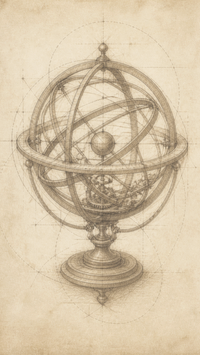
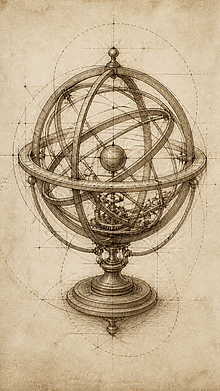
Make panel sketch artworks readable behind chrome
Darken parchment watermarks, raise paint opacity, widen the tool rail,
and let idle icon buttons sample the parent fresco so ornithopter /
armillary drawings show through.

diff --git a/SimpleDrawingApp/AtelierArtwork.cpp b/SimpleDrawingApp/AtelierArtwork.cpp
@@ -75,26 +75,26 @@ void DrawWatermark(Graphics& g, Bitmap* art, const RectF& bounds, REAL opacity, 
     g.SetClip(bounds, CombineModeIntersect);
 
     if (cover) {
-        // Scale to cover panel width, stack vertically to fill tall chrome.
-        const REAL drawW = bounds.Width * 0.92f;
+        // Prefer filling the panel: scale to panel width, stack with slight overlap.
+        const REAL drawW = bounds.Width * 0.96f;
         const REAL drawH = drawW * (static_cast<REAL>(ah) / static_cast<REAL>(aw));
-        REAL y = bounds.Y + 8.0f;
+        REAL y = bounds.Y + 4.0f;
         int pass = 0;
-        while (y < bounds.Y + bounds.Height - 8.0f && pass < 6) {
+        while (y < bounds.Y + bounds.Height - 4.0f && pass < 8) {
             const REAL x = bounds.X + (bounds.Width - drawW) * 0.5f;
-            const REAL fade = (pass == 0) ? opacity : (opacity * 0.72f);
+            // Later passes slightly softer so stacking doesn’t mud.
+            const REAL fade = (pass == 0) ? opacity : (opacity * (pass == 1 ? 0.85f : 0.7f));
             cm.m[3][3] = fade;
             attr.SetColorMatrix(&cm, ColorMatrixFlagsDefault, ColorAdjustTypeBitmap);
             RectF dest(x, y, drawW, drawH);
             g.DrawImage(art, dest, 0.0f, 0.0f,
                 static_cast<REAL>(aw), static_cast<REAL>(ah),
                 UnitPixel, &attr);
-            y += drawH * 0.88f;
+            y += drawH * 0.82f;
             ++pass;
         }
     } else {
-        // Single centered plate for shorter bands.
-        const REAL drawH = bounds.Height * 0.86f;
+        const REAL drawH = bounds.Height * 0.9f;
         const REAL drawW = drawH * (static_cast<REAL>(aw) / static_cast<REAL>(ah));
         const REAL x = bounds.X + (bounds.Width - drawW) * 0.5f;
         const REAL y = bounds.Y + (bounds.Height - drawH) * 0.5f;
@@ -130,8 +130,19 @@ void AtelierArtwork_Shutdown() {
 void DrawFrescoArtwork(Graphics& g, const RectF& bounds, bool leftRail) {
     if (!gInited) AtelierArtwork_Init();
     if (leftRail) {
-        DrawWatermark(g, gRailArt, bounds, 0.20f, true);
+        // Stronger on the outer strip + lower half where controls are sparse.
+        DrawWatermark(g, gRailArt, bounds, 0.46f, true);
+        if (bounds.Height > 160.0f) {
+            RectF lower(bounds.X, bounds.Y + bounds.Height * 0.48f,
+                bounds.Width, bounds.Height * 0.52f);
+            DrawWatermark(g, gRailArt, lower, 0.55f, true);
+        }
     } else {
-        DrawWatermark(g, gLayersArt, bounds, 0.24f, true);
+        DrawWatermark(g, gLayersArt, bounds, 0.42f, true);
+        if (bounds.Height > 180.0f) {
+            RectF lower(bounds.X + 6.0f, bounds.Y + bounds.Height * 0.42f,
+                bounds.Width - 12.0f, bounds.Height * 0.55f);
+            DrawWatermark(g, gLayersArt, lower, 0.58f, false);
+        }
     }
 }

diff --git a/SimpleDrawingApp/UiChrome.cpp b/SimpleDrawingApp/UiChrome.cpp
@@ -724,8 +724,26 @@ void PaintIconButton(const DRAWITEMSTRUCT* dis, const IconPaintOpts& opts) {
     g.SetSmoothingMode(SmoothingModeAntiAlias);
     g.SetCompositingMode(CompositingModeSourceCopy);
 
-    // Always paint chrome behind so we never flash system button face (90s look).
-    {
+    // Idle tools: sample parent fresco so panel artwork shows through.
+    // Selected/hot keep a gilt plate so affordance stays clear.
+    bool sampledParent = false;
+    if (!selected && !hot && !pressed && dis->hwndItem) {
+        HWND parent = GetParent(dis->hwndItem);
+        if (parent) {
+            POINT pt = { dis->rcItem.left, dis->rcItem.top };
+            MapWindowPoints(dis->hwndItem, parent, &pt, 1);
+            HDC parentDc = GetDC(parent);
+            if (parentDc) {
+                BitBlt(dis->hDC, 0, 0,
+                    dis->rcItem.right - dis->rcItem.left,
+                    dis->rcItem.bottom - dis->rcItem.top,
+                    parentDc, pt.x, pt.y, SRCCOPY);
+                ReleaseDC(parent, parentDc);
+                sampledParent = true;
+            }
+        }
+    }
+    if (!sampledParent) {
         SolidBrush base(Color(255, GetRValue(opts.chromeBg), GetGValue(opts.chromeBg), GetBValue(opts.chromeBg)));
         g.FillRectangle(&base, bounds);
     }

diff --git a/SimpleDrawingApp/SimpleDrawingApp.cpp b/SimpleDrawingApp/SimpleDrawingApp.cpp
@@ -33,7 +33,7 @@ namespace {
 const char CLASS_NAME[] = "SimpleDrawingAppWindowClass";
 const char VIEWPORT_CLASS_NAME[] = "SimpleDrawingAppViewport";
 constexpr int TOPBAR_HEIGHT = 48;
-constexpr int TOOL_RAIL_WIDTH = 56;
+constexpr int TOOL_RAIL_WIDTH = 84;
 constexpr int BOTTOMBAR_HEIGHT = 44;
 constexpr int STATUS_HEIGHT = 24;
 constexpr int LAYER_PANEL_WIDTH = 176;
@@ -661,8 +661,8 @@ static void LayoutChromeControls(HWND hwnd) {
     x += ICON_BTN + 4;
     if (hwndActionButtons[5]) MoveWindow(hwndActionButtons[5], x, topY, ICON_BTN, ICON_BTN, TRUE); // Save
 
-    // Left tool rail (top → bottom).
-    const int railX = (chrome.railW - ICON_BTN) / 2;
+    // Left tool rail — keep tools toward the inner edge so parchment art reads on the outer strip.
+    const int railX = 10;
     int y = chrome.topH + 14;
     const int order[7] = { 0, 1, 2, 6, 3, 4, 5 }; // Pen Eraser Fill Select Line Rect Ellipse
     for (int i = 0; i < 7; ++i) {
@@ -685,7 +685,7 @@ static void LayoutChromeControls(HWND hwnd) {
         const int row = i / 2;
         if (hwndSwatches[i]) {
             MoveWindow(hwndSwatches[i],
-                8 + col * 20,
+                10 + col * 20,
                 y + row * 20,
                 18, 18, TRUE);
         }
